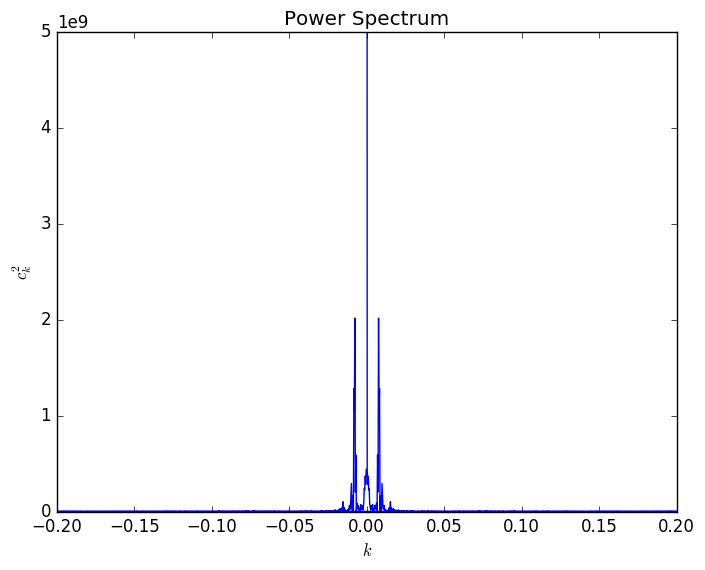
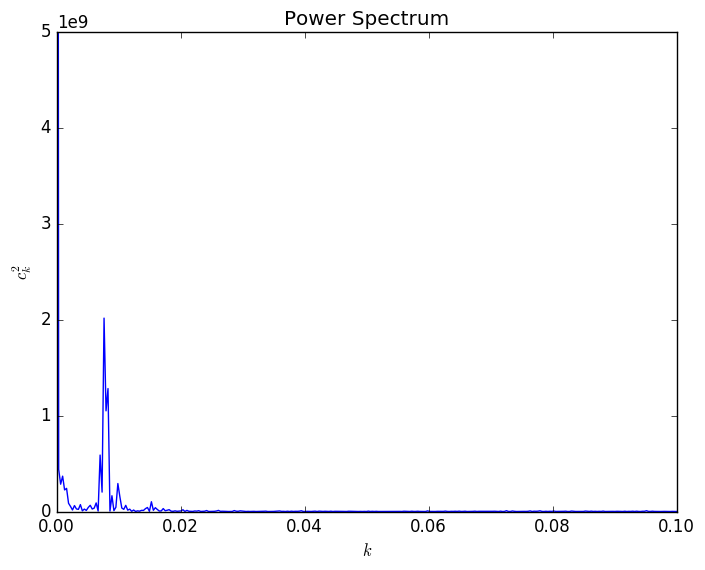
8th problem done

diff --git a/HW4/2/2.py b/HW4/2/2.py
@@ -29,17 +29,17 @@ print("The estimated periodicity is : 124 months" )
 
 #POWER SPECTRUM CALCULATION
 fk = np.fft.fft(yv)
-freq = np.fft.fftfreq(xv.shape[-1])
+freq = np.fft.rfftfreq(xv.shape[-1])
 fk_abs = []
 
-for i in range(len(xv)):
+for i in range(len(freq)):
 	fk_abs.append(abs(fk[i] * fk[i].conjugate()))
 
 #PLOTTING POWER SPECTRUM
 plt.plot(freq,fk_abs)
 plt.xlabel(r'$k$')
 plt.ylabel(r'$c_k^2$')
-plt.xlim(-0.2,0.2)
+plt.xlim(0,0.1)
 plt.ylim(0,0.5e10)
 plt.title('Power Spectrum')
 plt.savefig('2_sunspots_2_power_spectrum.png' , bbox_inches='tight')
